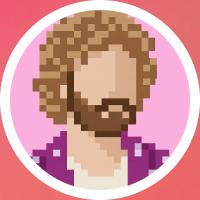
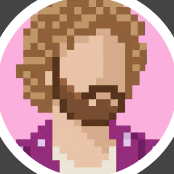
fix(shopos): clean agents 2/3 + later fan-out trigger
- Re-pulled agents 2 (pink/blonde) and 3 (green/dark-hair) from Figma
  node 120:4663 and cropped out the baked-in white border so the
  component's CSS border is the only ring (was rendering a double
  ring before).
- Bumped the IntersectionObserver trigger: rootMargin -15% top/bottom
  + threshold 0.65, so the animation only fires when the frame is
  meaningfully centered in view — was firing too early as the frame
  barely entered the viewport.

diff --git a/app/work/shopos/AgentsFanOut.jsx b/app/work/shopos/AgentsFanOut.jsx
@@ -34,14 +34,19 @@ export default function AgentsFanOut() {
   useEffect(() => {
     const el = ref.current;
     if (!el) return;
-    // Bidirectional: expand when ≥50% is in view, collapse back to stacked
-    // when the thumbnail scrolls out. User can replay the fan-out by
-    // scrolling away and back.
+    // Bidirectional. We use rootMargin to define a centered "trigger zone"
+    // (middle ~60% of the viewport) — the frame has to actually sit in
+    // that zone before the fan-out fires, so the animation doesn't burn
+    // off-screen at the very moment the frame's top edge slides in.
+    // Collapses back to stacked when it leaves the zone.
     const io = new IntersectionObserver(
       ([entry]) => {
-        setExpanded(entry.isIntersecting && entry.intersectionRatio >= 0.5);
+        setExpanded(entry.isIntersecting && entry.intersectionRatio >= 0.65);
       },
-      { threshold: [0, 0.5, 1] }
+      {
+        threshold: [0, 0.35, 0.65, 1],
+        rootMargin: "-15% 0px -15% 0px",
+      }
     );
     io.observe(el);
     return () => io.disconnect();
